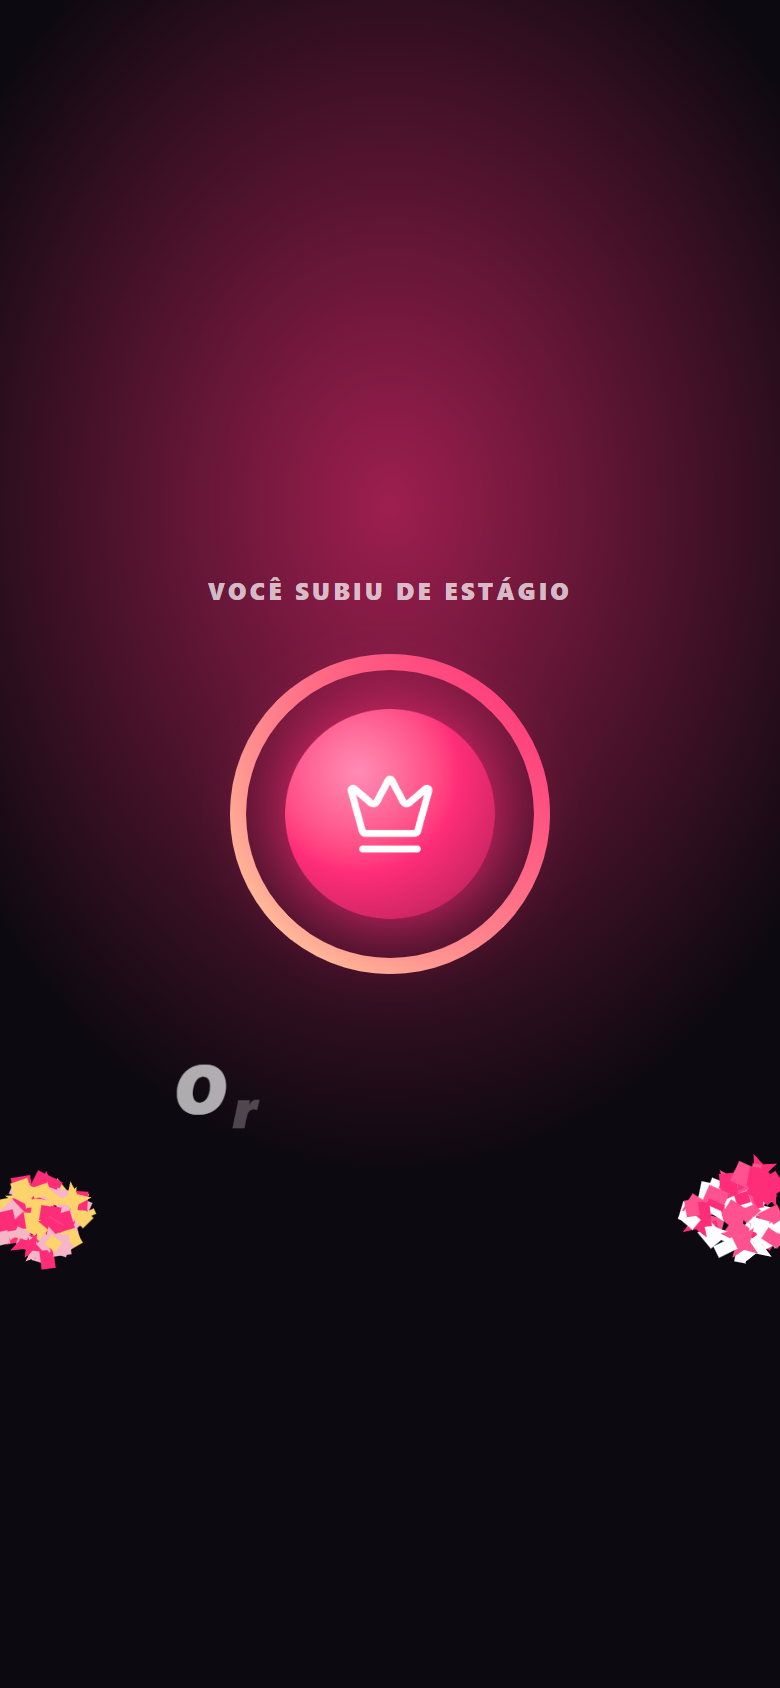
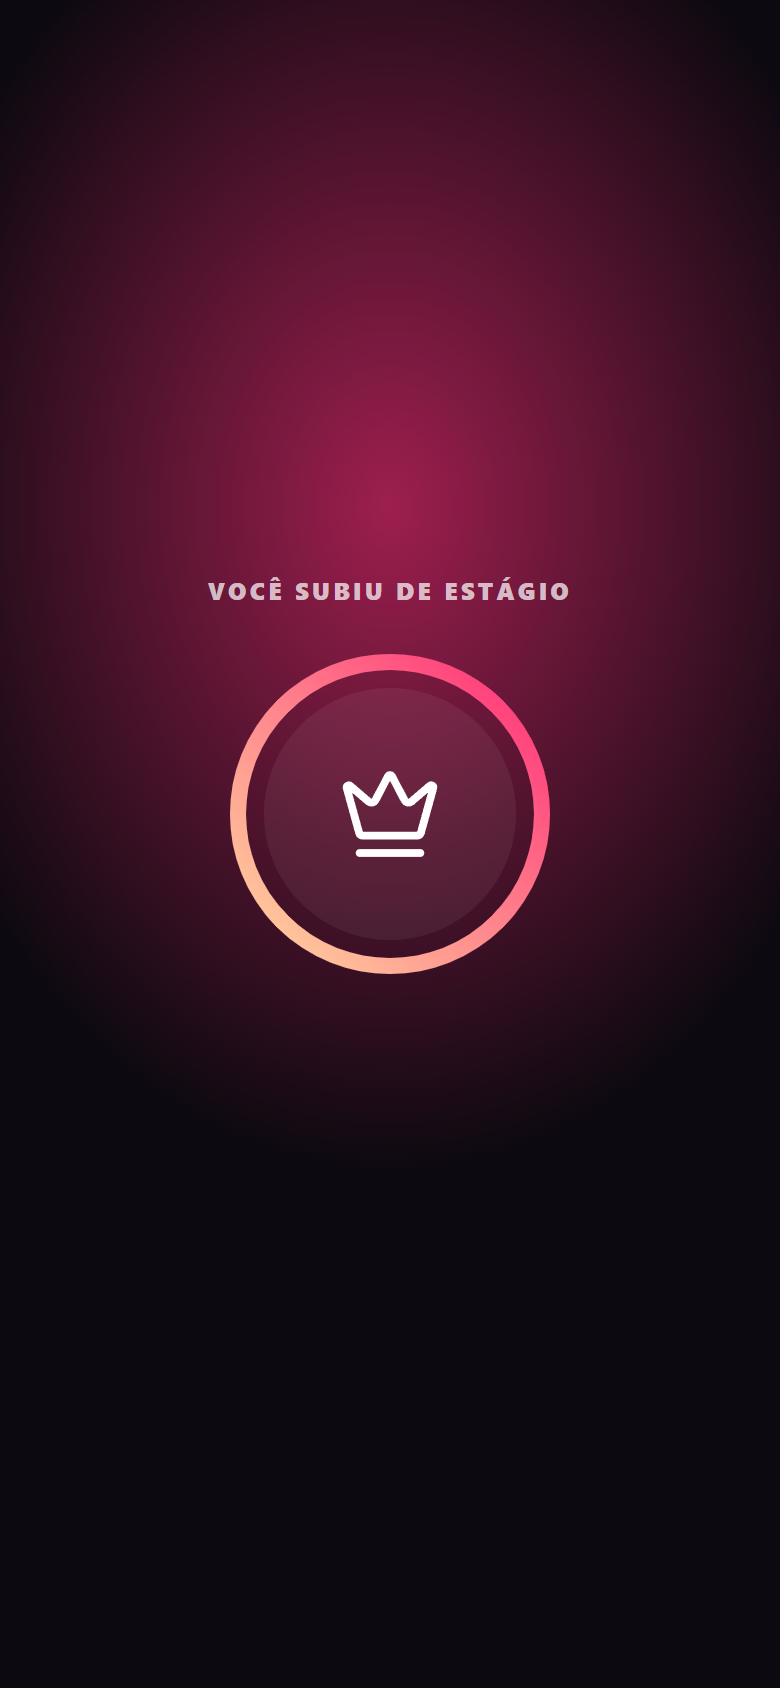
fix(jornada): ajustes da revisão da J13 (guardas, aviso e escopo)
Ticket: J13 (#163)

- guardas novas em celebracao.test.ts para o que passava sem teste: o
  host repassa somLigado e modoDiscreto de estado.preferencias (nunca
  fixos); a sessão de áudio fica "ambient" antes do AudioContext nascer
  (navigator.audioSession falso); o palco libera as adiadas no
  visibilitychange
- bug achado ao conferir o .txt da linha do tempo: a troca de item
  cancelava o timer que esconde o aviso, e o último aviso ficava na
  tela; os timers do aviso agora são próprios (mostrarAviso) e ele sai
  do DOM depois da transição
- decidir.ts: comGlow vira rendeu (falso positivo da regra de telas da
  #190)
- rebase sobre feature/jornada com a #190: contrato.test.ts fica só com
  a exceção de lib/jornada/som.ts na regra de números
- prints da linha do tempo refeitos com o t0 na hidratação (antes, o
  networkidle deslocava os instantes)

diff --git a/tests/jornada/celebracao.test.ts b/tests/jornada/celebracao.test.ts
@@ -99,6 +99,8 @@ beforeEach(() => {
 interface Gravacao {
   freqs: number[];
   ctor: number;
+  /** `navigator.audioSession.type` no instante em que o contexto nasceu. */
+  sessaoAoCriar: string | undefined;
 }
 
 function audioFalso(
@@ -108,7 +110,7 @@ function audioFalso(
     quebraAo?: "criar" | "oscilador";
   } = {}
 ) {
-  const g: Gravacao = { freqs: [], ctor: 0 };
+  const g: Gravacao = { freqs: [], ctor: 0, sessaoAoCriar: undefined };
   const param = () => ({
     value: 0,
     setValueAtTime: vi.fn(),
@@ -122,6 +124,11 @@ function audioFalso(
     destination = {};
     constructor() {
       g.ctor++;
+      g.sessaoAoCriar = (
+        globalThis.navigator as unknown as {
+          audioSession?: { type: string };
+        }
+      )?.audioSession?.type;
       if (opcoes.quebraAo === "criar") throw new Error("sem áudio");
     }
     resume() {
@@ -348,6 +355,29 @@ describe("som bloqueado ou ausente não derruba nada", () => {
     expect(soCodigo(PALCO)).not.toMatch(/if \(\s*!?tocarSom/);
   });
 
+  it("o som nunca fura o silencioso: sessão de áudio 'ambient' ANTES do contexto nascer", () => {
+    const sessao = { type: "auto" };
+    vi.stubGlobal("navigator", { audioSession: sessao });
+    try {
+      const g = audioFalso();
+      expect(tocarSom("plim", { ligado: true })).toBe(true);
+      expect(g.sessaoAoCriar).toBe("ambient");
+      expect(sessao.type).toBe("ambient");
+    } finally {
+      vi.unstubAllGlobals();
+    }
+  });
+
+  it("sem navigator.audioSession (fora do Safari) o som segue sem lançar", () => {
+    vi.stubGlobal("navigator", {});
+    try {
+      audioFalso();
+      expect(tocarSom("plim", { ligado: true })).toBe(true);
+    } finally {
+      vi.unstubAllGlobals();
+    }
+  });
+
   it("áudio liberado: o plim toca as notas do protótipo", () => {
     const g = audioFalso();
     expect(tocarSom("plim", { ligado: true })).toBe(true);
@@ -358,6 +388,30 @@ describe("som bloqueado ou ausente não derruba nada", () => {
 // ---------------------------------------------------------------------------
 // 6. Montar duas vezes não repete
 // ---------------------------------------------------------------------------
+
+describe("o palco: voltar ao app e o aviso sair da tela", () => {
+  it("voltar ao primeiro plano (visibilitychange) libera as adiadas no palco", () => {
+    const codigo = soCodigo(PALCO);
+    const corpo = codigo.match(/const visivel = \(\) => \{([\s\S]*?)\n {4}\};/);
+    expect(corpo).not.toBeNull();
+    expect(corpo![1]).toMatch(/document\.visibilityState === "visible"/);
+    expect(corpo![1]).toContain("liberarAdiadas()");
+    expect(codigo).toMatch(/addEventListener\("visibilitychange", visivel\)/);
+  });
+
+  it("o aviso some e sai do DOM com timers próprios (a troca de item não cancela)", () => {
+    const codigo = soCodigo(PALCO);
+    const mostrar = codigo.match(
+      /const mostrarAviso = useCallback\(([\s\S]*?)\}, \[\]\);/
+    );
+    expect(mostrar).not.toBeNull();
+    expect(mostrar![1]).toMatch(/avisoTimers\.current = \[/);
+    expect(mostrar![1]).toMatch(/setAvisoOn\(false\), duracaoMs\)/);
+    expect(mostrar![1]).toMatch(/atualAviso\?\.id === a\.id \? null/);
+    // O "esconder" não mora nos timers da linha do tempo do item.
+    expect(codigo).not.toMatch(/depois\(plano\.duracaoMs, \(\) => setAvisoOn/);
+  });
+});
 
 describe("montar duas vezes (StrictMode) não repete comemoração", () => {
   it("o som de uma comemoração toca uma vez só", () => {
@@ -558,6 +612,17 @@ describe("a comemoração só mostra o Glow que o servidor mandou", () => {
     expect(soCodigo(PALCO)).not.toContain("useJornada");
     expect(soCodigo(read(`${DIR}/ComemoracaoHost.tsx`))).toContain(
       'from "@/components/jornada/useJornada"'
+    );
+  });
+
+  it("o host repassa as preferências de verdade (a chave da J12 chega aqui)", () => {
+    const host = soCodigo(read(`${DIR}/ComemoracaoHost.tsx`));
+    expect(host).toMatch(/somLigado:\s*estado\.preferencias\.somLigado,/);
+    expect(host).toMatch(/modoDiscreto:\s*estado\.preferencias\.modoDiscreto,/);
+    expect(host).toMatch(/movimentoReduzido(,|:\s*movimentoReduzido)/);
+    // E não fixa nenhuma delas.
+    expect(host).not.toMatch(
+      /(somLigado|modoDiscreto|movimentoReduzido):\s*(true|false)/
     );
   });
 

diff --git a/components/jornada/celebracao/ComemoracaoPalco.tsx b/components/jornada/celebracao/ComemoracaoPalco.tsx
@@ -116,6 +116,10 @@ export function ComemoracaoPalco({ fila, ambiente, consumir }: PropsPalco) {
   const fxRef = useRef<Particulas | null>(null);
   const ambienteRef = useRef(ambiente);
   ambienteRef.current = ambiente;
+  // Timers do aviso ficam FORA da linha do tempo do item: a fila segue
+  // (consome) antes do aviso sumir, e a troca de item não pode cancelar o
+  // "esconder" -- senão o último aviso ficava na tela.
+  const avisoTimers = useRef<ReturnType<typeof setTimeout>[]>([]);
 
   const adiadas = adiadasDaSessao(fila);
   const proxima = proximaParaTocar(fila, adiadas);
@@ -148,6 +152,31 @@ export function ComemoracaoPalco({ fila, ambiente, consumir }: PropsPalco) {
       fx.parar();
       fxRef.current = null;
     };
+  }, []);
+
+  useEffect(
+    () => () => {
+      avisoTimers.current.forEach(clearTimeout);
+    },
+    []
+  );
+
+  const mostrarAviso = useCallback((a: Aviso, duracaoMs: number) => {
+    avisoTimers.current.forEach(clearTimeout);
+    setAviso(a);
+    setAvisoOn(false);
+    avisoTimers.current = [
+      setTimeout(() => setAvisoOn(true), 16),
+      setTimeout(() => setAvisoOn(false), duracaoMs),
+      // depois da transição de saída (.55s), tira do DOM
+      setTimeout(
+        () =>
+          setAviso((atualAviso) =>
+            atualAviso?.id === a.id ? null : atualAviso
+          ),
+        duracaoMs + 600
+      ),
+    ];
   }, []);
 
   const terminar = useCallback(
@@ -188,23 +217,23 @@ export function ComemoracaoPalco({ fila, ambiente, consumir }: PropsPalco) {
 
     if (plano.forma === "aviso") {
       setAtual(null);
-      setAviso({
-        id: c.id,
-        titulo: tituloDoAviso(textos),
-        apoio: c.tipo === "pequena" ? textos.apoio : textos.glow,
-        neutro: plano.neutro,
-        icone:
-          c.tipo === "pequena"
-            ? plano.neutro
-              ? "ok"
-              : "brilho"
-            : c.tipo === "meta" || c.tipo === "marco"
-              ? "meta"
-              : "selo",
-      });
-      setAvisoOn(false);
-      depois(16, () => setAvisoOn(true));
-      depois(plano.duracaoMs, () => setAvisoOn(false));
+      mostrarAviso(
+        {
+          id: c.id,
+          titulo: tituloDoAviso(textos),
+          apoio: c.tipo === "pequena" ? textos.apoio : textos.glow,
+          neutro: plano.neutro,
+          icone:
+            c.tipo === "pequena"
+              ? plano.neutro
+                ? "ok"
+                : "brilho"
+              : c.tipo === "meta" || c.tipo === "marco"
+                ? "meta"
+                : "selo",
+        },
+        plano.duracaoMs
+      );
       if (plano.efeitos) {
         const w = window.innerWidth;
         depois(60, () => fx()?.estouro(w / 2, 34, 16, false));
@@ -248,7 +277,7 @@ export function ComemoracaoPalco({ fila, ambiente, consumir }: PropsPalco) {
       });
     }
     return () => timers.forEach(clearTimeout);
-  }, [proximaId, terminar]);
+  }, [proximaId, terminar, mostrarAviso]);
 
   const fechar = () => {
     if (!atual || !podeSeguir || fechando) return;

diff --git a/components/jornada/celebracao/decidir.ts b/components/jornada/celebracao/decidir.ts
@@ -116,17 +116,17 @@ export function planoDaComemoracao(c: Comemoracao, amb: Ambiente): Plano {
   const vibra = (p: number | number[]) => (discreto ? null : p);
 
   if (c.tipo === "pequena") {
-    const comGlow = c.glow > 0 && c.ganhou;
+    const rendeu = c.glow > 0 && c.ganhou;
     return {
       forma: "aviso",
-      som: som(comGlow ? "plim" : "check"),
+      som: som(rendeu ? "plim" : "check"),
       atrasoSom: 0,
-      efeitos: comGlow && !quieto,
+      efeitos: rendeu && !quieto,
       animar: !amb.movimentoReduzido,
-      vibracao: comGlow ? vibra(12) : null,
-      duracaoMs: comGlow ? 1900 : 2200,
+      vibracao: rendeu ? vibra(12) : null,
+      duracaoMs: rendeu ? 1900 : 2200,
       seguirEmMs: quieto ? 1150 : 1300,
-      neutro: discreto || !comGlow,
+      neutro: discreto || !rendeu,
     };
   }
 
